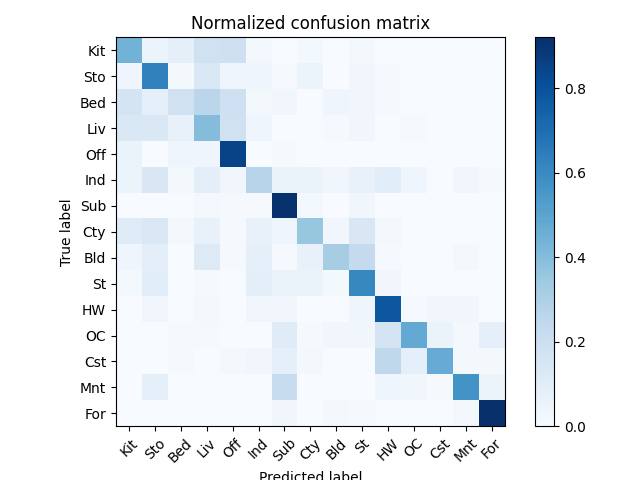
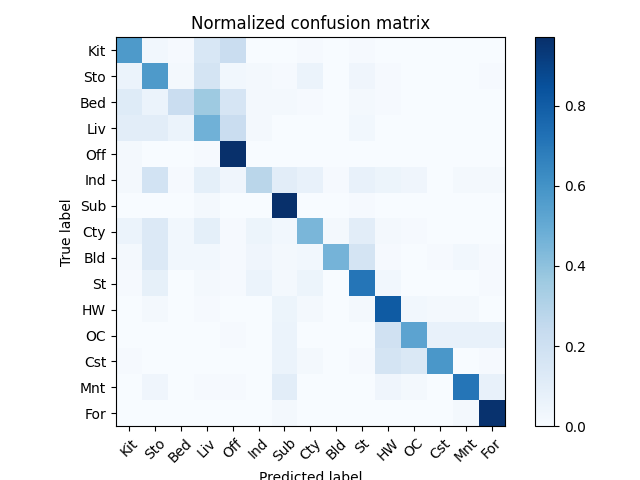
using braycurtis pass the strong baseline

diff --git a/hw2/p1/utils.py b/hw2/p1/utils.py
@@ -280,8 +280,8 @@ def nearest_neighbor_classify(train_img_feats, train_labels, test_img_feats):
     #      work better, or you can also try different metrics for cdist()     #
     ###########################################################################
     test_predicts = []
-    k = 5
-    dist = cdist(test_img_feats, train_img_feats)
+    k = 7
+    dist = cdist(test_img_feats, train_img_feats,metric="braycurtis")
     
     # 看test img離哪k個train img最近
     # 再由最近的那些train img的 label去投票
